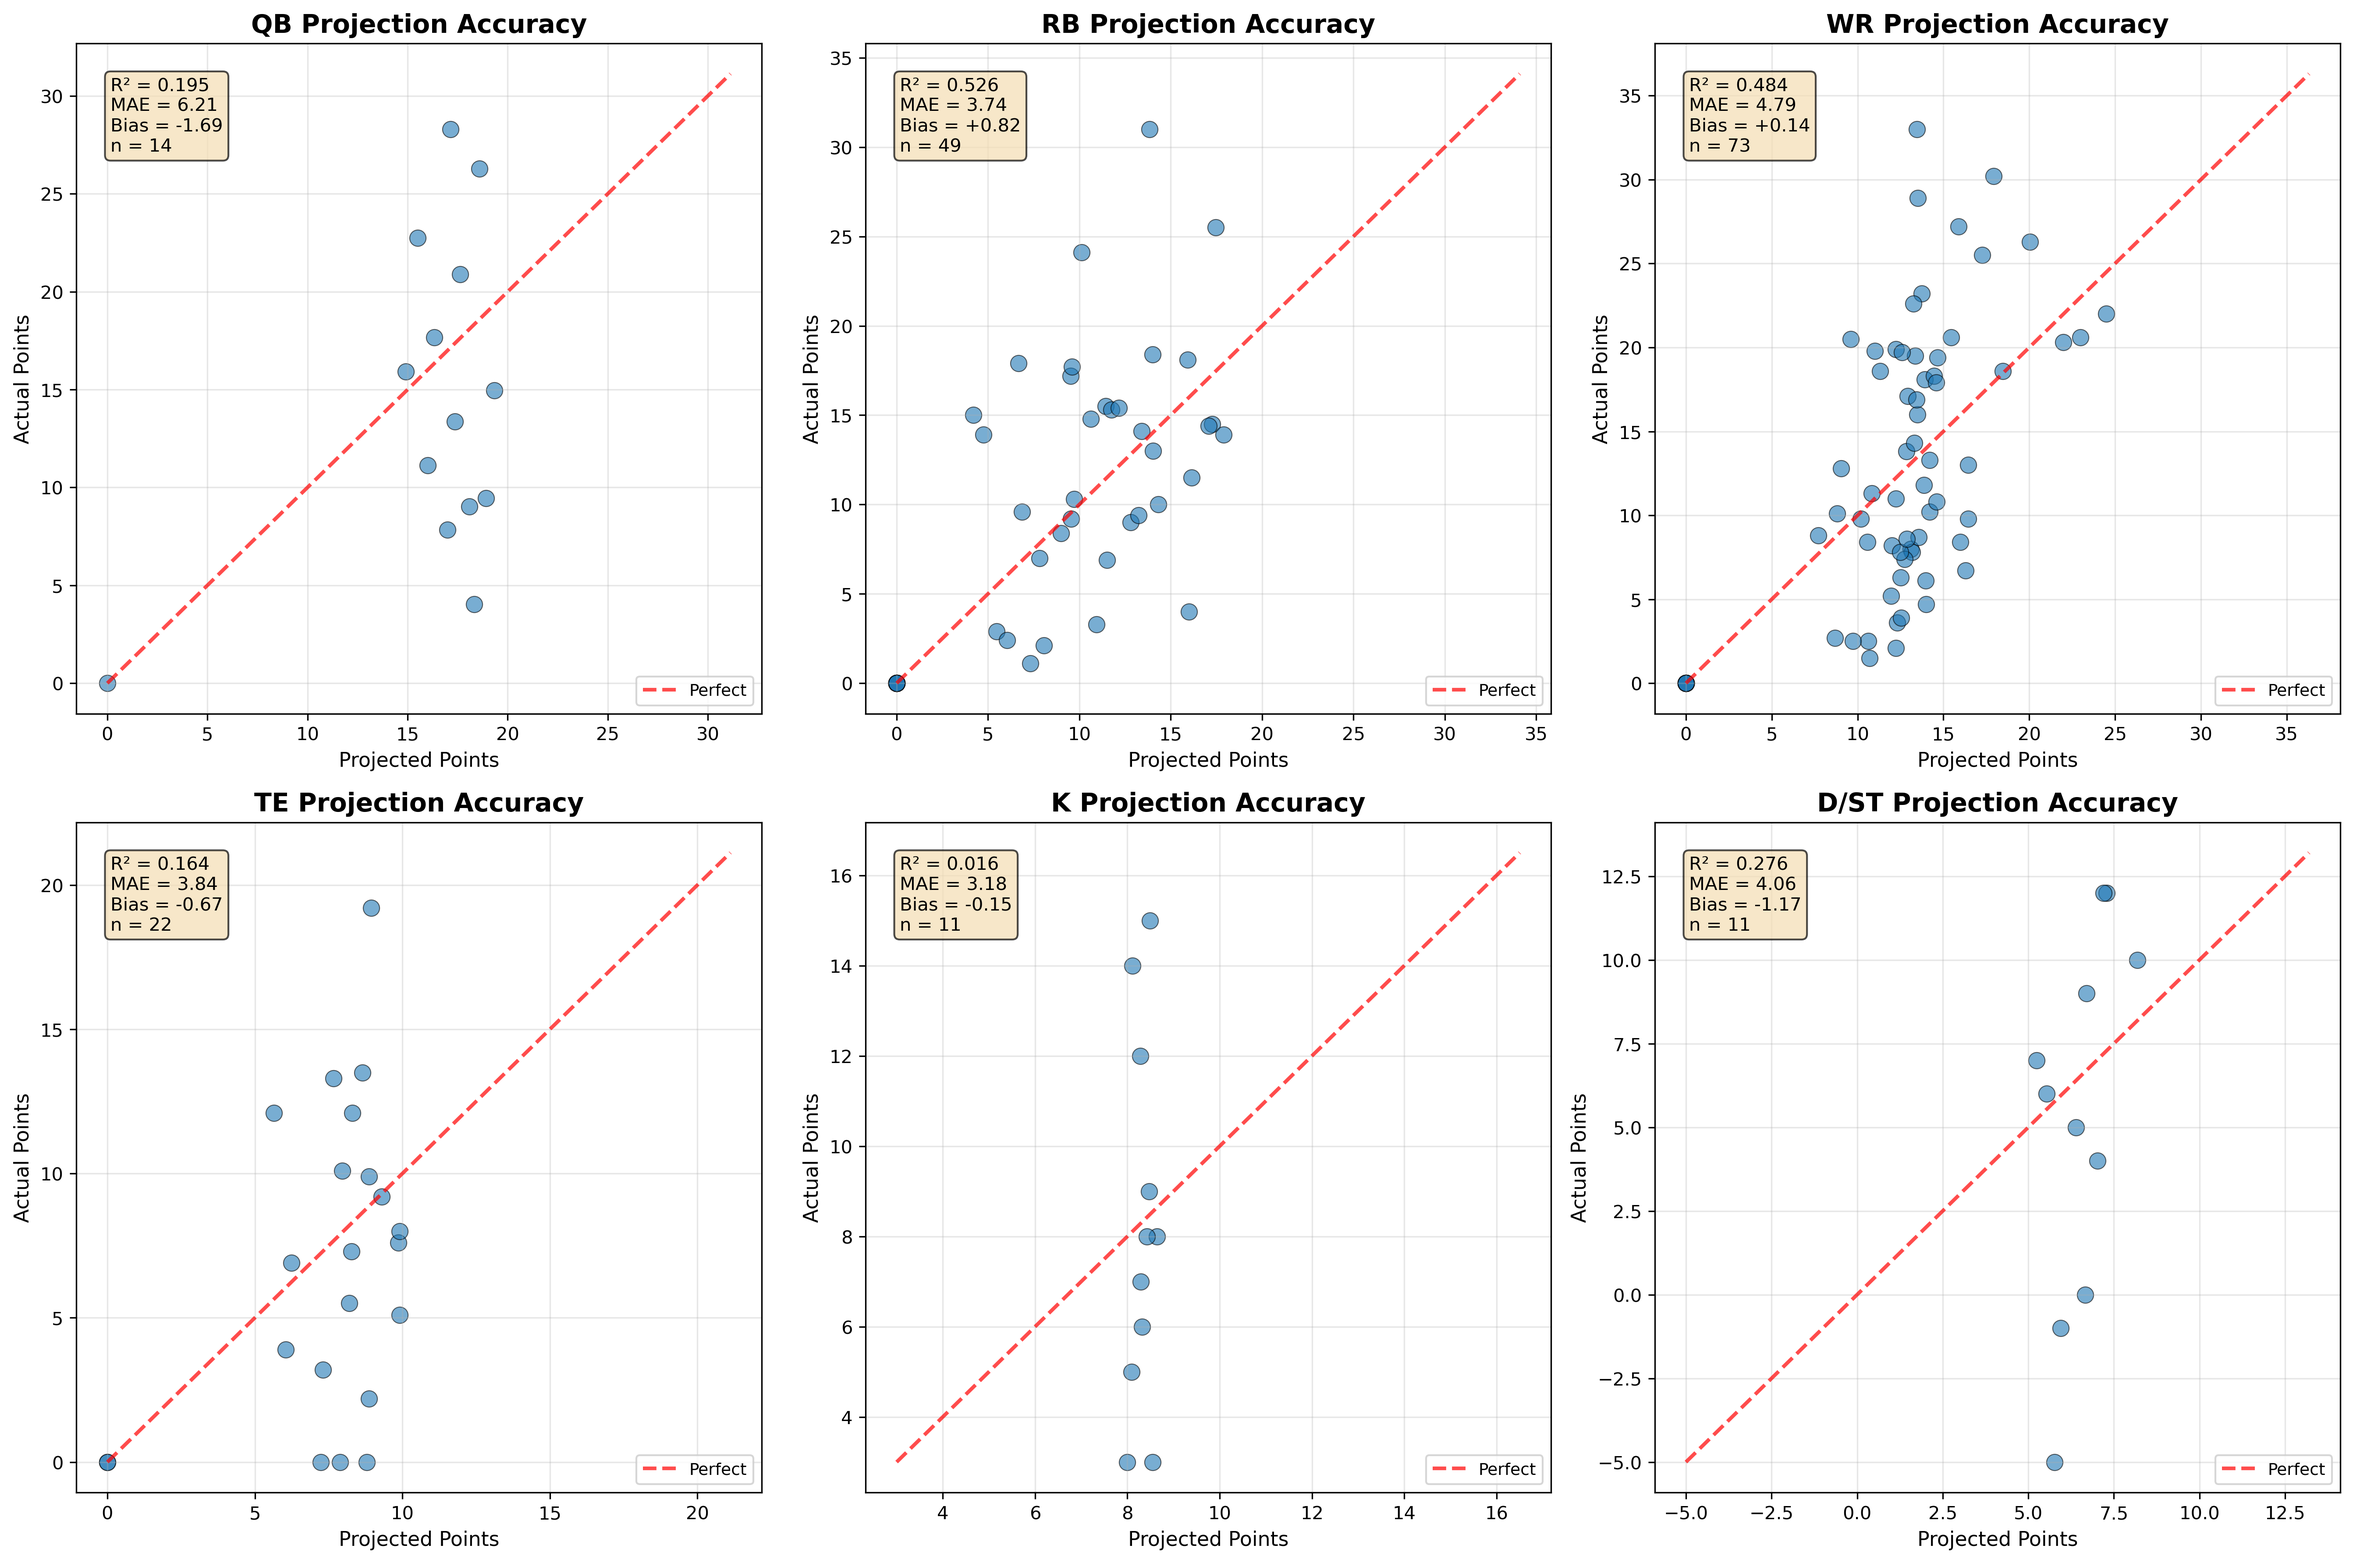
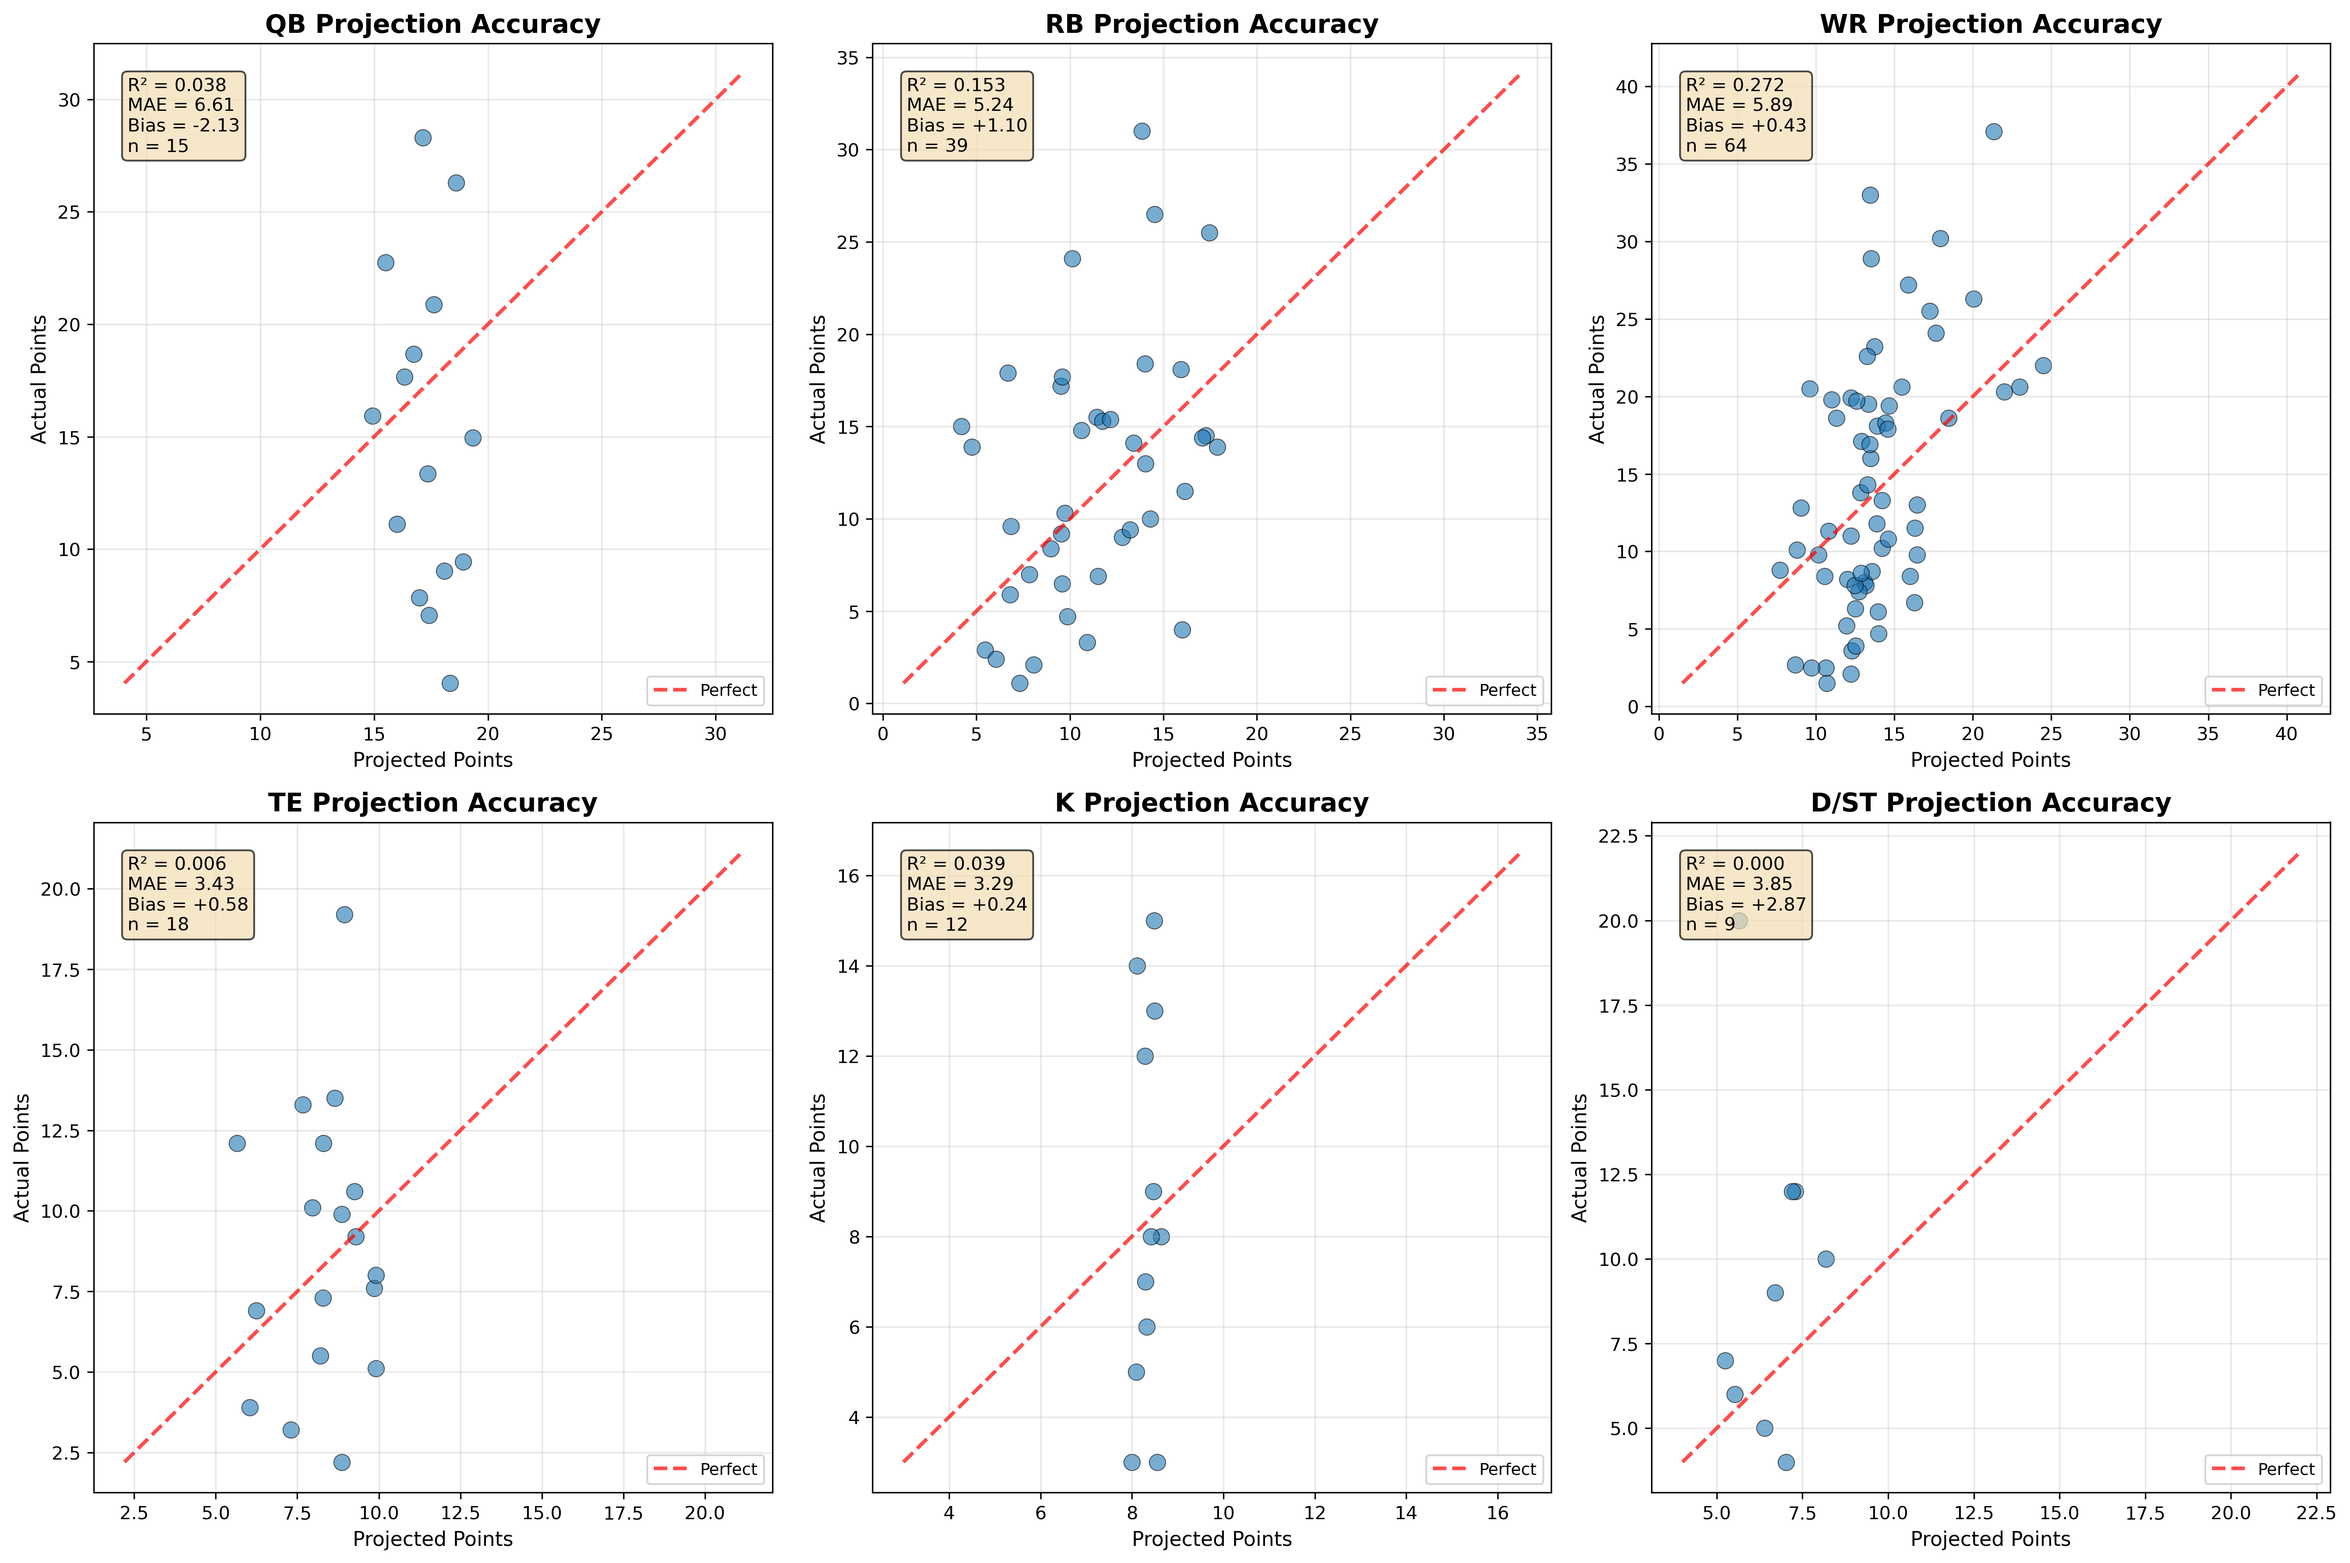
Update Week 13 analysis with Week 12 data, league charts, and Rice injury
- Charts now include Week 12 actual results (Weeks 1-12)
- Added league-wide projection accuracy analysis and charts
- Fixed Rashee Rice status to QUESTIONABLE
- Team and league visualizations updated

🤖 Generated with [Claude Code](https://claude.com/claude-code)

diff --git a/week13_suggestions.md b/week13_suggestions.md
@@ -71,8 +71,10 @@ All opponent matchups cross-referenced with ESPN NFL API for Week 13.
 **STILL OUT:**
 - **Marvin Harrison Jr. (ARI):** Appendicitis surgery (Nov 12). Likely OUT Week 13 (3rd straight game). Possible Week 14 return. "When he's physically and mentally healthy to play, he'll play" - Coach Gannon
 
-**HEALTHY:**
-- **Rashee Rice (KC):** Fully healthy. 6-game suspension completed. Posted 24.10 fantasy points (8/141 yards) in Week 12 win vs IND.
+**QUESTIONABLE:**
+- **Rashee Rice (KC):** Listed as QUESTIONABLE. 6-game suspension completed. Posted 24.10 fantasy points (8/141 yards) in Week 12 win vs IND. Monitor practice reports - expected to play but check Friday injury report.
+
+**INJURED RESERVE:**
 - **Omarion Hampton (LAC):** Remains on IR, no return timeline.
 
 ---
@@ -209,11 +211,14 @@ All opponent matchups cross-referenced with ESPN NFL API for Week 13.
 
 ### WIDE RECEIVER #2: Rashee Rice (KC @ DAL, AWAY, Thursday 4:30 PM Thanksgiving)
 
+**INJURY ALERT:** Currently listed as QUESTIONABLE - monitor practice reports before Thursday game!
+
 - **ESPN Projection (IBM watsonx):** 18.1 pts
 - **LLM Projection (Claude Sonnet 4.5):** 21.0 pts (HIGH confidence)
-- **Recommendation:** **START** - Elite WR1 with excellent matchup
+- **Recommendation:** **START** (if active) - Elite WR1 with excellent matchup
 
 **LLM Reasoning:**
+- **Injury Note:** QUESTIONABLE designation - expected to play but verify before kickoff
 - **Week 12 Performance:** 8/141 yards (24.10 pts) - WR8 on the week
 - **Matchup:** Dallas defense ranks 31st per FPI. 29th in Yards Allowed, 31st in Points Allowed
 - **Vegas odds:** Chiefs -3 favorites (game total 52.5, implied team total 27.8) - high-scoring environment
@@ -480,7 +485,7 @@ Getting Amon-Ra St. Brown and Stefon Diggs for Singletary + Wilson is a HOME RUN
 3. **WRs have moderate reliability** - Use with caution, ±5 pt variance
 4. **Kicker projections are essentially random** - Don't overthink K decisions
 
-### Visualization Charts
+### Team-Specific Visualization Charts (Weeks 1-12)
 
 ![Overall Projection Accuracy](images/projection_accuracy_overall.png)
 
@@ -489,6 +494,43 @@ Getting Amon-Ra St. Brown and Stefon Diggs for Singletary + Wilson is a HOME RUN
 ![Error Distribution](images/projection_error_distribution.png)
 
 ![Weekly Accuracy Trends](images/projection_accuracy_trend.png)
+
+---
+
+## League-Wide Projection Accuracy Analysis
+
+### All 12 Teams - Summary Statistics (Weeks 1-12)
+
+| Team | Records | MAE | Bias | R² |
+|------|---------|-----|------|-----|
+| Meat Pistols | 192 | 4.27 | -0.29 | 0.548 |
+| Chupi and the End Zone Bandits | 200 | 4.41 | -0.14 | 0.420 |
+| Valued Customers | 197 | 4.45 | +0.08 | 0.477 |
+| Moms rules | 192 | 4.55 | -0.49 | 0.505 |
+| Wookie of the Year | 197 | 4.58 | -0.52 | 0.432 |
+| Ryan's Rowdy Team | 198 | 4.62 | -0.07 | 0.442 |
+| Torta Pounders Football Club | 192 | 4.62 | -0.36 | 0.435 |
+| The Warsaw Pact | 190 | 4.78 | -0.76 | 0.434 |
+| Smooth Roosters | 192 | 5.00 | -0.70 | 0.395 |
+| Kitty's Piggy Skins | 192 | 5.05 | +0.42 | 0.428 |
+| 4th and pinches | 197 | 5.09 | -0.80 | 0.386 |
+| Auto DraftKings | 192 | 5.76 | -0.15 | 0.328 |
+
+### Notable League-Wide Bias Patterns (|Bias| > 2.0 pts)
+
+- **4th and pinches QB:** -2.69 pts (UNDERPERFORMS projections)
+- **Valued Customers QB:** -2.00 pts (UNDERPERFORMS projections)
+- **Auto DraftKings D/ST:** +2.52 pts (BEATS projections)
+- **The Warsaw Pact D/ST:** +2.16 pts (BEATS projections)
+- **Torta Pounders Football Club TE:** +2.29 pts (BEATS projections)
+
+### League-Wide Visualization Charts
+
+![Team MAE Rankings](images/league_team_mae_ranking.png)
+
+![Team x Position Bias Heatmap](images/league_bias_heatmap.png)
+
+![League-Wide Position Scatter](images/league_positional_scatter.png)
 
 ---
 
